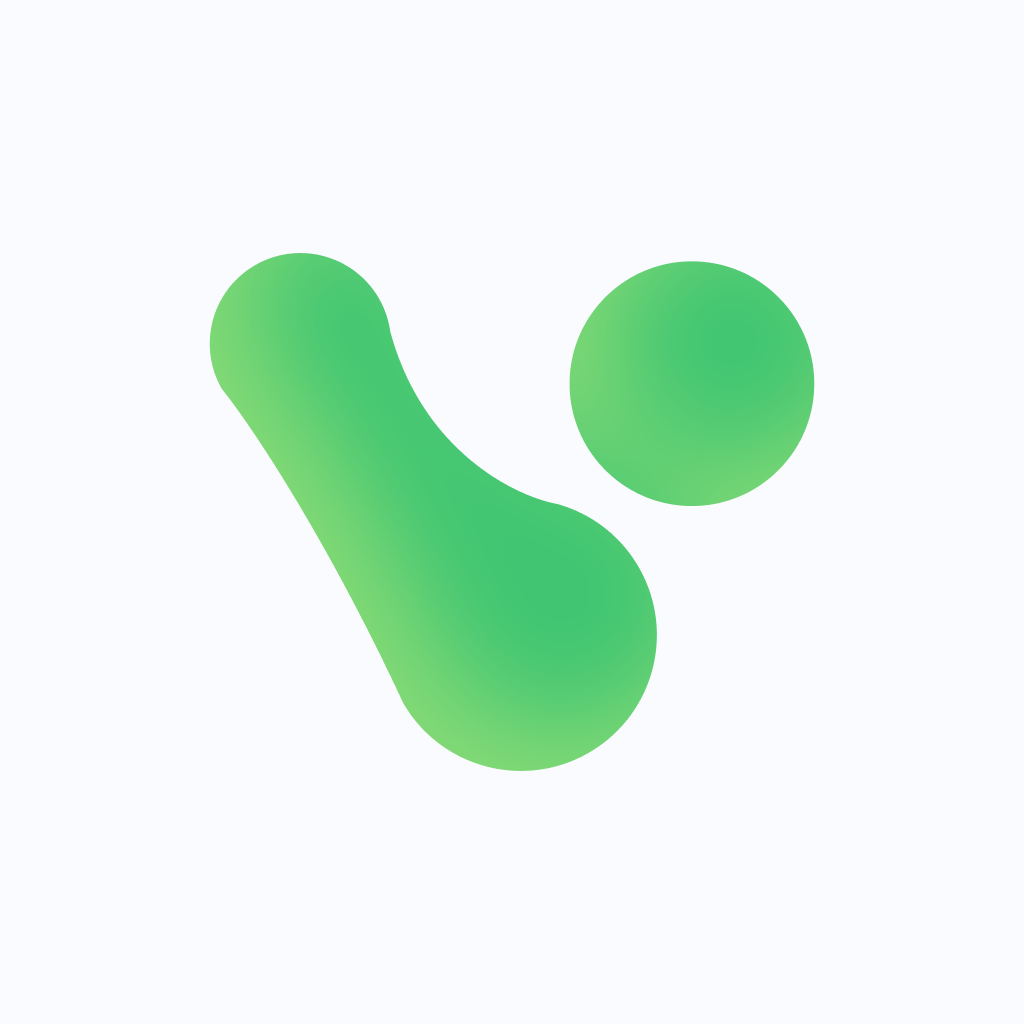
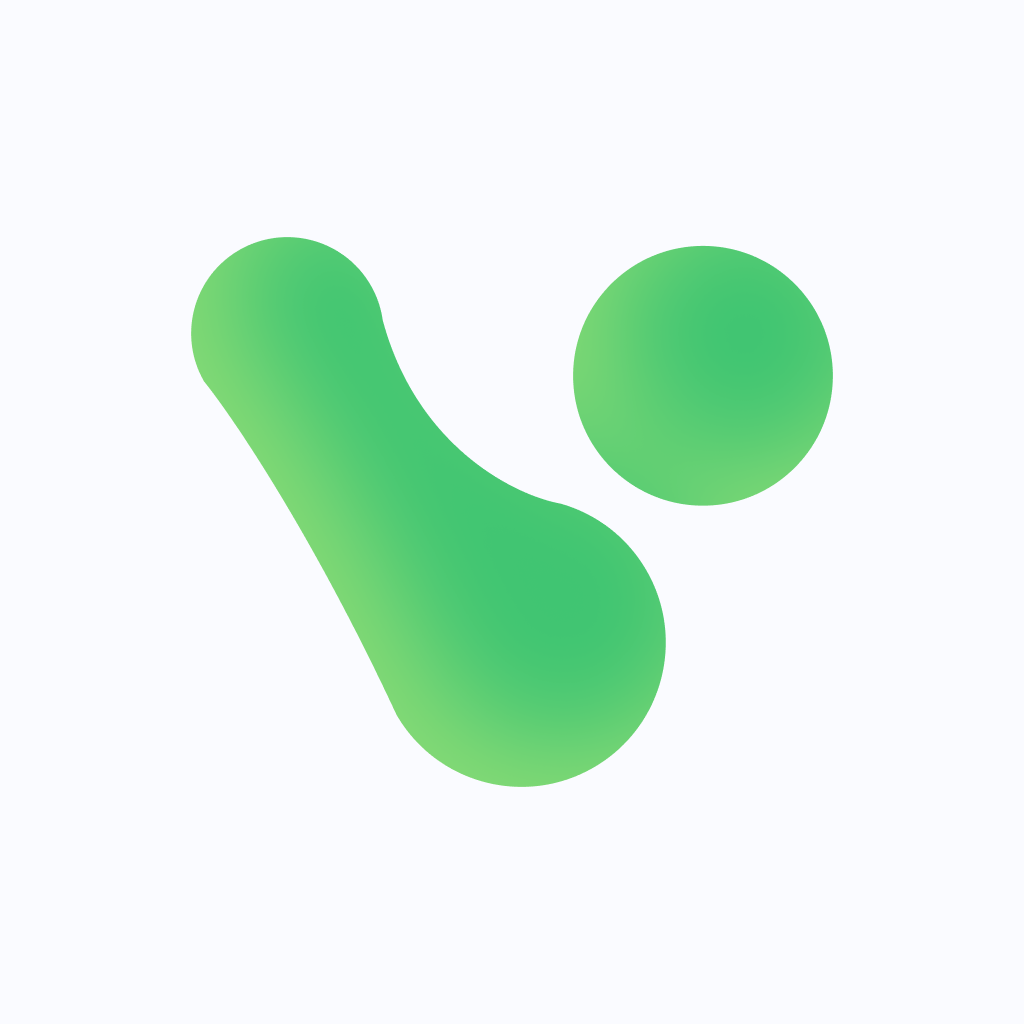
fix: 앱 재개 시 ‘네트워크 오류’ 에러 토스트 메세지 뜨는 오류 해결 (#27)
- design: 앱 아이콘 재변경
- design: 수신된 계약 미리보기 페이지 상하 여백 제거로 PDF 영역 확대
- design: 신고 내용 확인 bottomsheet 높이 제한 제거
- design: 마이페이지 고유 코드 부분 디자인 변경

diff --git a/lib/features/contract/presentation/widgets/modals/report_detail_bottom_sheet.dart b/lib/features/contract/presentation/widgets/modals/report_detail_bottom_sheet.dart
@@ -21,7 +21,6 @@ class ReportDetailBottomSheet extends HookConsumerWidget {
     final detailCtr = useTextEditingController(text: recentReportDetail);
 
     return Container(
-      height: 320,
       decoration: BoxDecoration(
         color: vrc(context).background,
         borderRadius: const BorderRadius.only(
@@ -31,6 +30,7 @@ class ReportDetailBottomSheet extends HookConsumerWidget {
       ),
       child: SafeArea(
         child: Column(
+          mainAxisSize: MainAxisSize.min,
           children: [
             Center(
               child: Container(
@@ -43,13 +43,13 @@ class ReportDetailBottomSheet extends HookConsumerWidget {
                 ),
               ),
             ),
-            Expanded(
+            Flexible(
               child: SingleChildScrollView(
                 child: Column(
                   mainAxisSize: MainAxisSize.min,
                   children: [
                     Padding(
-                      padding: const EdgeInsets.fromLTRB(20, 47, 20, 10),
+                      padding: const EdgeInsets.fromLTRB(20, 47, 20, 20),
                       child: Column(
                         mainAxisSize: MainAxisSize.min,
                         crossAxisAlignment: CrossAxisAlignment.start,
@@ -98,7 +98,7 @@ class ReportDetailBottomSheet extends HookConsumerWidget {
                     ),
                     Container(height: 8, color: vrc(context).secondaryColor),
                     Padding(
-                      padding: const EdgeInsets.all(20),
+                      padding: const EdgeInsets.fromLTRB(20, 20, 20, 10),
                       child: Column(
                         mainAxisSize: MainAxisSize.min,
                         crossAxisAlignment: CrossAxisAlignment.start,
@@ -117,17 +117,16 @@ class ReportDetailBottomSheet extends HookConsumerWidget {
                             maxLines: 4,
                             readOnly: true,
                           ),
-                          const SizedBox(height: 20),
-                          PrimaryButton.mono(
-                            text: "확인",
-                            onTap: () => context.pop(),
-                          ),
                         ],
                       ),
                     ),
                   ],
                 ),
               ),
+            ),
+            Padding(
+              padding: const EdgeInsets.symmetric(horizontal: 20, vertical: 10),
+              child: PrimaryButton.mono(text: "확인", onTap: () => context.pop()),
             ),
           ],
         ),

diff --git a/lib/features/profile/presentation/screens/my_page/widgets/profile_score_card.dart b/lib/features/profile/presentation/screens/my_page/widgets/profile_score_card.dart
@@ -29,8 +29,7 @@ class ProfileScoreCard extends HookConsumerWidget {
         crossAxisAlignment: CrossAxisAlignment.start,
         children: [
           Row(
-            crossAxisAlignment: CrossAxisAlignment.baseline,
-            textBaseline: TextBaseline.alphabetic,
+            crossAxisAlignment: CrossAxisAlignment.center,
             children: [
               Flexible(
                 child: Text(
@@ -46,19 +45,29 @@ class ProfileScoreCard extends HookConsumerWidget {
 
               // meProvider 로딩 전이면 null이므로 이 경우에만 코드 미표시
               if (shareCode != null) ...[
-                const SizedBox(width: 6),
+                const SizedBox(width: 10),
                 GestureDetector(
                   behavior: HitTestBehavior.opaque,
                   onTap: () {
                     Clipboard.setData(ClipboardData(text: shareCode));
                     showNormalToast(context, "고유코드가 복사되었습니다");
                   },
-                  child: Text(
-                    shareCode,
-                    style: context.txt(
-                      color: vrc(context).textPrimary,
-                      fontSize: 20,
-                      fontWeight: FontWeight.bold,
+                  child: Container(
+                    padding: const EdgeInsets.symmetric(
+                      horizontal: 8,
+                      vertical: 3,
+                    ),
+                    decoration: BoxDecoration(
+                      color: vrc(context).tertiaryColor,
+                      borderRadius: BorderRadius.circular(8),
+                    ),
+                    child: Text(
+                      shareCode,
+                      style: context.txt(
+                        color: vrc(context).textSecondary,
+                        fontSize: 12,
+                        fontWeight: FontWeight.w600,
+                      ),
                     ),
                   ),
                 ),

diff --git a/lib/features/profile/presentation/screens/home/home_page.dart b/lib/features/profile/presentation/screens/home/home_page.dart
@@ -96,26 +96,28 @@ class HomePage extends HookConsumerWidget {
     // ===== 기기/토큰 관련 =====
     useEffect(() {
       WidgetsBinding.instance.addPostFrameCallback((_) async {
-        // FCM 토큰 + 현재 기기 정보 식별
-        final deviceVM = ref.read(deviceTokenViewModelProvider.notifier);
-        await deviceVM.getDeviceInfo();
+        if (lifecycle == AppLifecycleState.resumed) {
+          // FCM 토큰 + 현재 기기 정보 식별
+          final deviceVM = ref.read(deviceTokenViewModelProvider.notifier);
+          await deviceVM.getDeviceInfo();
 
-        // FCM 토큰 저장
-        final registerSuccess = await deviceVM.registerToken();
-        if (!context.mounted) return;
-        if (!registerSuccess) {
-          final state = ref.read(deviceTokenViewModelProvider);
-          showErrorToast(context, state.error!);
-          deviceVM.clearError();
-        }
+          // FCM 토큰 저장
+          final registerSuccess = await deviceVM.registerToken();
+          if (!context.mounted) return;
+          if (!registerSuccess) {
+            final state = ref.read(deviceTokenViewModelProvider);
+            showErrorToast(context, state.error!);
+            deviceVM.clearError();
+          }
 
-        // 기기 활성 ping
-        final success = await deviceVM.ping();
-        if (!context.mounted) return;
-        if (!success) {
-          final state = ref.read(deviceTokenViewModelProvider);
-          showErrorToast(context, state.error!);
-          deviceVM.clearError();
+          // 기기 활성 ping
+          final success = await deviceVM.ping();
+          if (!context.mounted) return;
+          if (!success) {
+            final state = ref.read(deviceTokenViewModelProvider);
+            showErrorToast(context, state.error!);
+            deviceVM.clearError();
+          }
         }
       });
       return null;

diff --git a/lib/features/contract/presentation/screens/request/contract_request_detail_page.dart b/lib/features/contract/presentation/screens/request/contract_request_detail_page.dart
@@ -40,7 +40,7 @@ class ContractRequestDetailPage extends HookConsumerWidget {
           onTapLeading: () => context.go(AppRoutes.home),
         ),
         body: Padding(
-          padding: const EdgeInsets.all(20),
+          padding: const EdgeInsets.symmetric(horizontal: 20),
           child: Column(
             children: [
               Expanded(
@@ -49,12 +49,10 @@ class ContractRequestDetailPage extends HookConsumerWidget {
                   pdfBytes: pdfBytes,
                 ),
               ),
+              const SizedBox(height: 12),
 
               // 판매자일 때만 보증 기간 선택 영역 노출
-              if (isSeller) ...[
-                const SizedBox(height: 12),
-                const ContractWarrantySection(),
-              ],
+              if (isSeller) const ContractWarrantySection(),
             ],
           ),
         ),
